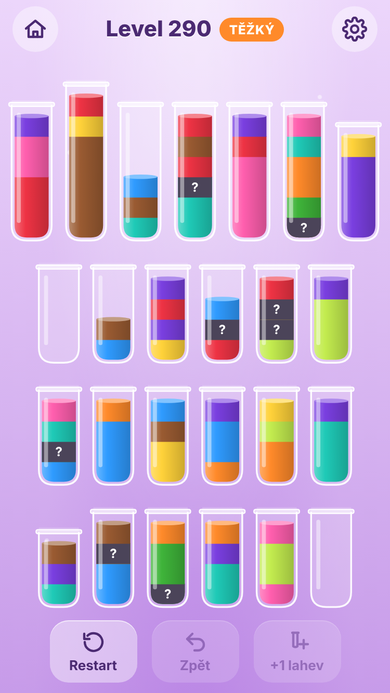
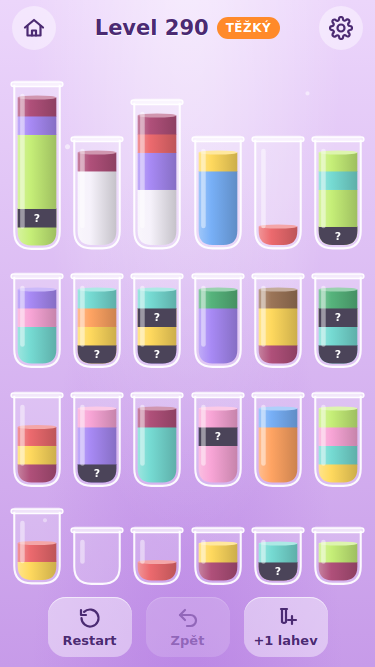
[docs] DOC: pastelové barvy, obtížnost, nápověda a celá obrazovka na iOS

diff --git a/README.md b/README.md
@@ -39,12 +39,12 @@ Debug režim: přidej do adresy `?debug`. Vpravo nahoře se objeví FPS, po ťuk
 Hotové a ověřené testy a během produkčního buildu v Chromiu v rozlišení iPhonu 14, 14 Pro a SE:
 
 - Pravidla, Zpět, +1 lahev, Restart, uzavírání lahví, výhra, bezvýchodná situace
-- Lahve různé výšky (2–8), barva přes více lahví, skryté barvy od levelu 31
+- Lahve různé výšky (2–8), barva přes více lahví, skryté barvy od levelu 31, až 12 barev
 - Nekonečný deterministický generátor; levely 1–300 ověřeně řešitelné přes engine hry; generování typicky 40–70 ms na PC (maximum 90 ms, jednou při zátěži 279 ms) ve Web Workeru
 - Rozložení: 24 lahví v nejhorším případě 40,5 pt na iPhonu SE a 47,5 pt na iPhonu 14, stránka se neposouvá
 - Animace: zvednutí, let nad cílovou lahev, fyzikální náklon s vodorovnou hladinou, proud, zátka se zábleskem a jiskrami, rozlití barvy při odkrytí, zatřesení, konfety přes celou obrazovku
 - Lahve v klidu se kopírují z předkresleného plátna: při 24 lahvích a 3 současných přelitích kleslo vykreslení snímku v softwarovém Chromiu z 13–18 ms na 8,5–11 ms a snímků nad 20 ms z 6–88 na 0–9 za 8 s
-- Zvuky přes Web Audio, tutoriál s rukou (levely 1–3), tip ke skrytým barvám, banner těžkých levelů
+- Zvuky přes Web Audio, nápověda s rukou v levelech 1–3 (ve výchozím stavu vypnutá, zapíná se v nastavení), tip ke skrytým barvám, banner těžkých levelů
 - Ukládání rozehrané hry včetně historie tahů, nastavení, statistik
 - Offline: po prvním načtení jde hra spustit, vygenerovat nový level i dohrát bez sítě; první vykreslení z cache 82 ms na PC
 - Aktualizace: nová verze uprostřed levelu čeká a přepne se až na úvodní obrazovce
@@ -55,7 +55,7 @@ Hotové a ověřené testy a během produkčního buildu v Chromiu v rozlišení
 
 1. 60 fps na iPhonu 14 a generování pod 500 ms. Měření na PC dává jen porovnání, ne absolutní hodnoty.
 2. Zvuky: odemknutí prvním dotykem a obnovení po návratu z pozadí.
-3. Skutečné safe areas. V Chromiu jsem jen přepsal CSS proměnné na hodnoty notche a Dynamic Islandu, `env()` z iOS jsem neměl.
+3. Skutečné safe areas a výška obrazovky. V Chromiu jsem jen přepsal CSS proměnné na hodnoty notche a Dynamic Islandu, `env()` z iOS jsem neměl. Oprava bílého pruhu dole v nainstalované PWA (viz [Celá obrazovka na iOS](#celá-obrazovka-na-ios)) v Chromiu nejde ověřit.
 4. Instalace na plochu, spuštění z plochy v režimu letadlo, mazání dat systémem.
 5. Pocitová obtížnost – křivka je nastavená podle měření, ale potřebuje dohrát pár desítek levelů.
 
@@ -71,6 +71,7 @@ Kontrola na iPhonu (akceptační kritéria ze zadání):
 - [ ] `?debug` → FPS při přelévání na levelu 150+ drží ~60 (120 na Pro)
 - [ ] Zvuky po prvním ťuknutí, po návratu z pozadí fungují dál
 - [ ] Nic pod notchem / Dynamic Islandem / domácím indikátorem
+- [ ] Hra pokrývá celou obrazovku, dole není bílý pruh (nainstalovaná i v Safari)
 - [ ] Zavřít appku uprostřed levelu → po spuštění pokračuje i se Zpět
 - [ ] Po nasazení nové verze se aktualizace projeví až na úvodní obrazovce
 
@@ -97,6 +98,14 @@ deploy/      nginx.conf, k8s.yaml
 .github/     nasazení na GitHub Pages
 ```
 
+## Celá obrazovka na iOS
+
+Nainstalovaná PWA se stavovým řádkem `black-translucent` posune stránku pod stavový řádek. `height: 100%`, `inset: 0` i `100dvh` ale dál počítají s výškou bez něj, takže dole zůstal bílý pruh o výšce stavového řádku (20 pt na iPhonu SE, 44 pt na iPhonu 11 Pro). Proto:
+
+- Výška aplikace je v proměnné `--app-h`: v Safari `100dvh`, v nainstalované PWA `100vh`, což je tam celá obrazovka. PWA se pozná přes `@media (display-mode: standalone)` a navíc třídou `.standalone` z `main.ts` (`navigator.standalone`).
+- Pozadí kreslí `#app`, ne `body`, protože jen `#app` má jistě výšku celé obrazovky. `html` má barvu spodku pozadí pro místa, která nic nepokryje (např. oblast pod lištou Safari 26).
+- Panely a konfety mají výšku `--app-h`, konfety berou rozměr plátna z CSS, ne z `innerHeight`.
+
 ## Ladění obtížnosti
 
 Vše je v [src/core/config.ts](src/core/config.ts):
@@ -110,13 +119,16 @@ Vše je v [src/core/config.ts](src/core/config.ts):
 - **Uzavření lahve se skrytou jednotkou:** plná jednobarevná lahev se uzavře, i když v ní je neodkrytá jednotka, a ta se při tom odkryje. Podle původního pravidla by skrytá jednotka na dně lahve, ze které se už nepřelévá, zablokovala výhru.
 - **Generátor:** místo náhodného rozdání + solveru staví levely pozpátku z vyřešeného stavu. Náhodné rozdání s různými kapacitami je u velkých levelů většinou neřešitelné. Řešitelnost je zaručená konstrukcí a test ji ověřuje přehráním řešení v enginu hry.
 - **Obtížnost:** vybírá se kandidát podle pořadí (`pick`), ne podle cílového podílu prohraných her. Náhodný hráč velké levely nedohraje nikdy, takže tahle metrika u nich nerozlišovala.
-- **Solver:** best-first s heuristikou (prohledávání do hloubky se na velkých levelech ztrácelo). Používá se pro nápovědu v tutoriálu a debug.
+- **Solver:** best-first s heuristikou (prohledávání do hloubky se na velkých levelech ztrácelo). Používá se pro nápovědu v tutoriálu a debug. Na velkých levelech (zhruba od 10 barev) do limitu stavů řešení často nenajde, debug „Řešení“ pak nic neukáže; hratelnost to neovlivňuje, řešitelnost zaručuje generátor.
 - **Testy:** `node:test` místo Vitestu – bez závislostí, běží rovnou v Node 22.
 - **PWA:** vlastní service worker a malý plugin ve `vite.config.ts` místo `vite-plugin-pwa`. Precachuje všechny soubory buildu, aktualizace čeká na úvodní obrazovku.
 - **Náklon:** počítá se z objemu tekutiny tak, aby hladina právě dosahovala na hrdlo, takže je v rozsahu ~30–95° místo pevných 60–85°.
 - **Přelití:** 660–780 ms podle množství tekutiny místo pevných 700 ms.
 - **Generování při selhání workeru:** když Web Worker nejde spustit, level se vygeneruje na hlavním vlákně. V běžném provozu se to neděje, je to jen pojistka, aby hra nezůstala bez levelu.
-- **Prázdné lahve:** všechna pásma mají 2 náhradní lahve, jedna z nich bývá na začátku částečně naplněná (jako na snímku originálu).
+- **Prázdné lahve:** všechna pásma mají 2 náhradní lahve, jedna z nich bývá na začátku částečně naplněná (jako na snímku originálu). Generátor zvládne i 1 náhradní lahev bez zpomalení; to je další páka, kdyby hra byla pořád lehká.
+- **Barvy:** 12 pastelových barev místo 10 sytých (přání po prvním hraní; přibyla vínová a mléčně bílá). Barvy se liší i světlostí, nejmenší vzájemná vzdálenost ΔE2000 je 18,7 (původní sytá paleta 19,8 při 10 barvách). Symboly pro barvoslepé jsou tmavé, bílé na pastelu zanikaly.
+- **Křivka obtížnosti:** strmější a s víc barvami než v zadání, protože hra byla moc lehká. Levely 4–12 mají 5–7 barev a 7–10 lahví, 13–30 7–9 barev a 10–14 lahví, 31–60 8–10 barev a 14–18 lahví, od levelu 100 12 barev a 24 lahví (dřív 10 barev až od 121). Víc než 24 lahví nejde: na iPhonu SE by lahev byla užší než 40 pt.
+- **Tutoriál:** ruka, která ukazuje další tah v levelech 1–3, je ve výchozím stavu vypnutá. Zapíná se v Nastavení → Nápověda (levely 1–3).
 - **+1 lahev na iPhonu SE:** s 25. přidanou lahví a kapacitami až 8 má lahev v nejhorším případě 39 pt. Zadání požaduje 40 pt při 24 lahvích, to platí.
 - **Předkreslení:** lahve v klidu jsou předkreslené celé včetně tekutiny. Lahve v animaci (nakloněné, plnící se, se zátkou ve vzduchu) se kreslí živě.
 - **Nedělal jsem:** vysoké lahve po stranách přes víc řad (volitelné v zadání), lint (ESLint by porušil pravidlo o dev závislostech v CLAUDE.md; `tsc` se `strict` a `noUnused*` kontroluje část téhož).

diff --git a/CLAUDE.md b/CLAUDE.md
@@ -19,6 +19,8 @@ Offline PWA hra water sort (klon mechanik hry Magic Sort) pro iPhone 2022+. Vani
 - Logika (`core/`, `solver/`) nesmí sahat na DOM; musí jít testovat v Node.
 - Texty UI jen v `src/ui/strings.ts`.
 - Po změně generátoru/křivky zvýšit `GENERATOR_VERSION` v `core/config.ts`.
+- `MAX_COLORS` v `core/config.ts` nesmí přesáhnout délku `PALETTE` a `SYMBOLS` v `render/palette.ts`.
+- Výška celé obrazovky jen přes `var(--app-h)`, ne `inset: 0`, `100%` ani `100dvh` (v nainstalované PWA na iOS jsou kratší o stavový řádek → bílý pruh dole). Pozadí kreslí `#app`. Podrobně README, sekce „Celá obrazovka na iOS“.
 
 ## Repozitář
 
@@ -39,7 +41,7 @@ Repo je veřejné. Autor commitů je noreply adresa z `.git/config`, žádné os
 
 ## Co zbývá
 
-1. Test na iPhonu (checklist v README): FPS, zvuky, safe areas, instalace, offline. Dosud běželo jen v Chromiu, ne v Safari.
-2. Ladění obtížnosti v `core/config.ts` podle hraní.
+1. Test na iPhonu (checklist v README): FPS, zvuky, safe areas, instalace, offline, zmizel bílý pruh dole. Dosud běželo jen v Chromiu, ne v Safari.
+2. Ladění obtížnosti v `core/config.ts` podle hraní (křivka zrychlená 7. 11. 2026, dalším krokem by byla 1 náhradní lahev místo 2).
 3. Rozhodnout o lintu: ESLint je v rozporu s pravidlem o dev závislostech výše.
 4. Volitelné: vysoké lahve po stranách přes víc řad.
